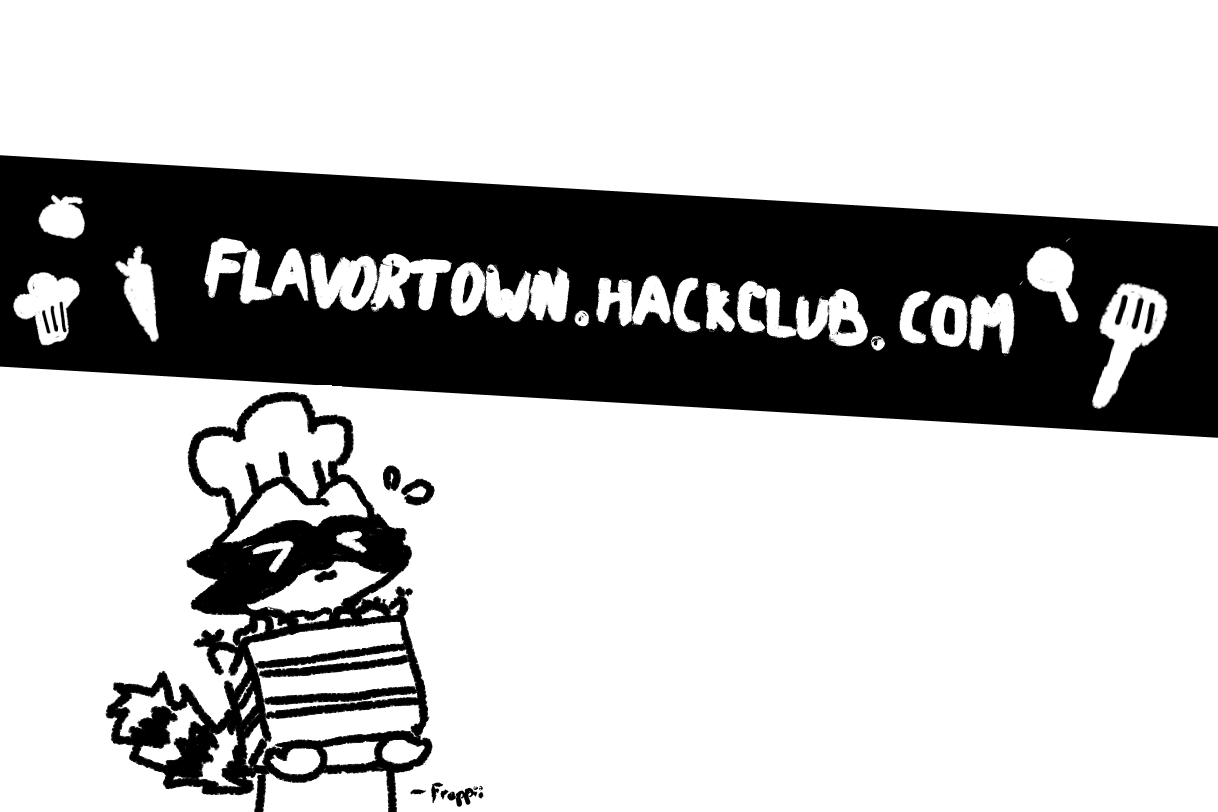
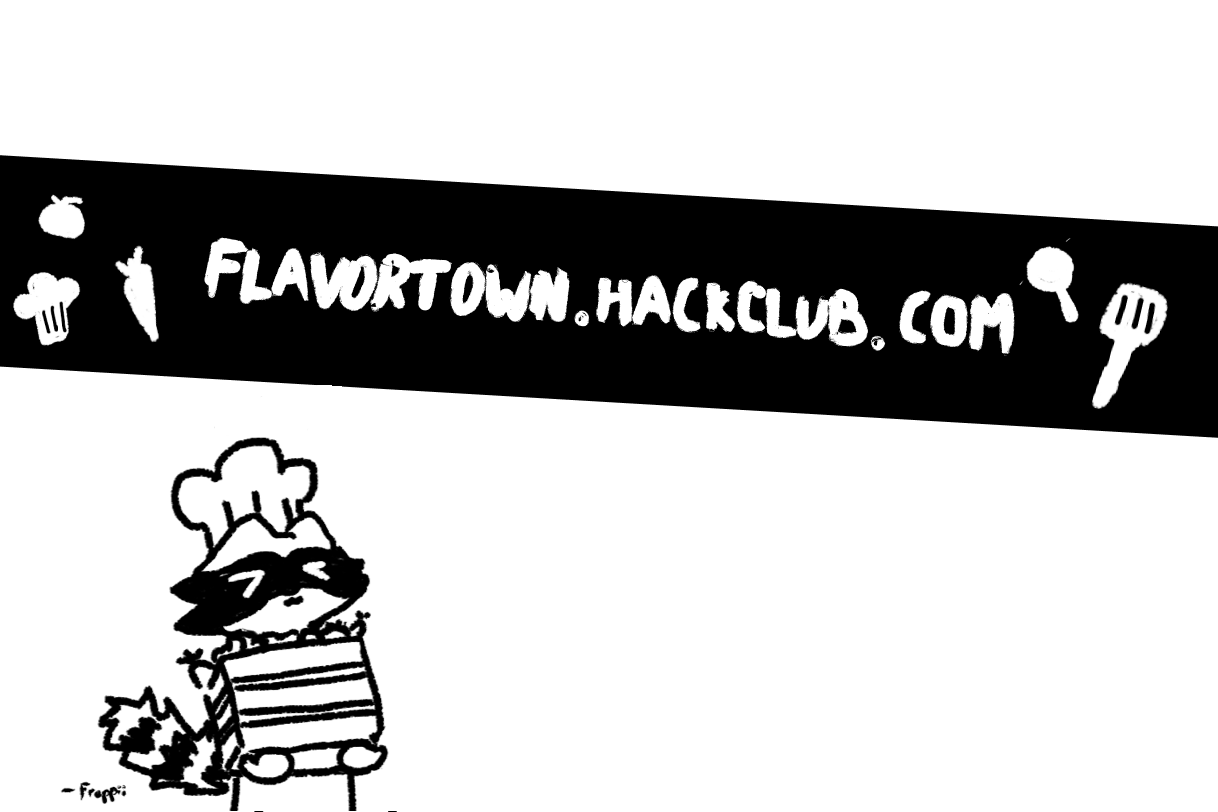
Resize flavortown free template (#191)
* Resize flavortown free template

* what if it was smaller

---------

Changed region(s): [[0.0624, 0.4618, 0.4056, 1.0]]

diff --git a/app/lib/snail_mail/components/templates/flavortown_free_stickers_fulfillment_template.rb b/app/lib/snail_mail/components/templates/flavortown_free_stickers_fulfillment_template.rb
@@ -27,13 +27,13 @@ module SnailMail
           )
 
           # Render return address
-          render_return_address(10, 278, 260, 70, size: 10)
+          render_return_address(10, 278, 260, 70, size: 8)
 
           # Render destination address
           render_destination_address(
-            160,
+            165,
             140,
-            220,
+            230,
             71,
             size: 14,
             valign: :bottom,
@@ -42,7 +42,7 @@ module SnailMail
 
           # Render postal elements
           render_imb(240, 24, 183)
-          render_qr_code(5, 115, 60)
+          render_qr_code(5, 115, 50)
           render_letter_id(10, 65, 10, rotate: 90)
           render_postage
         end
